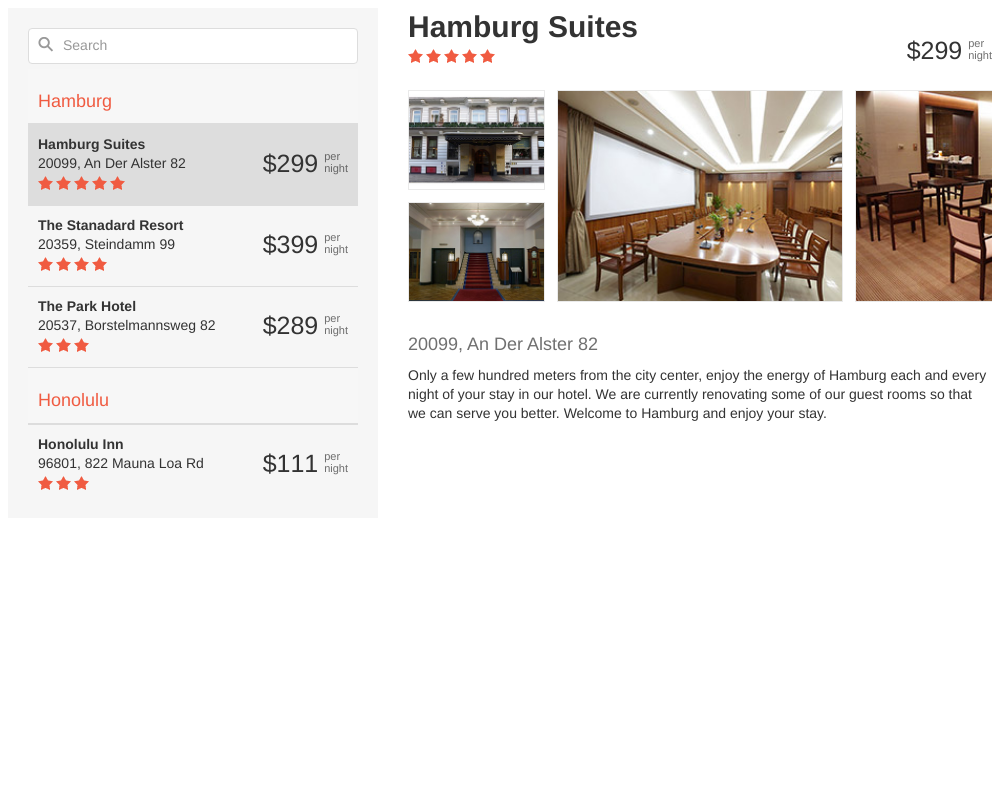
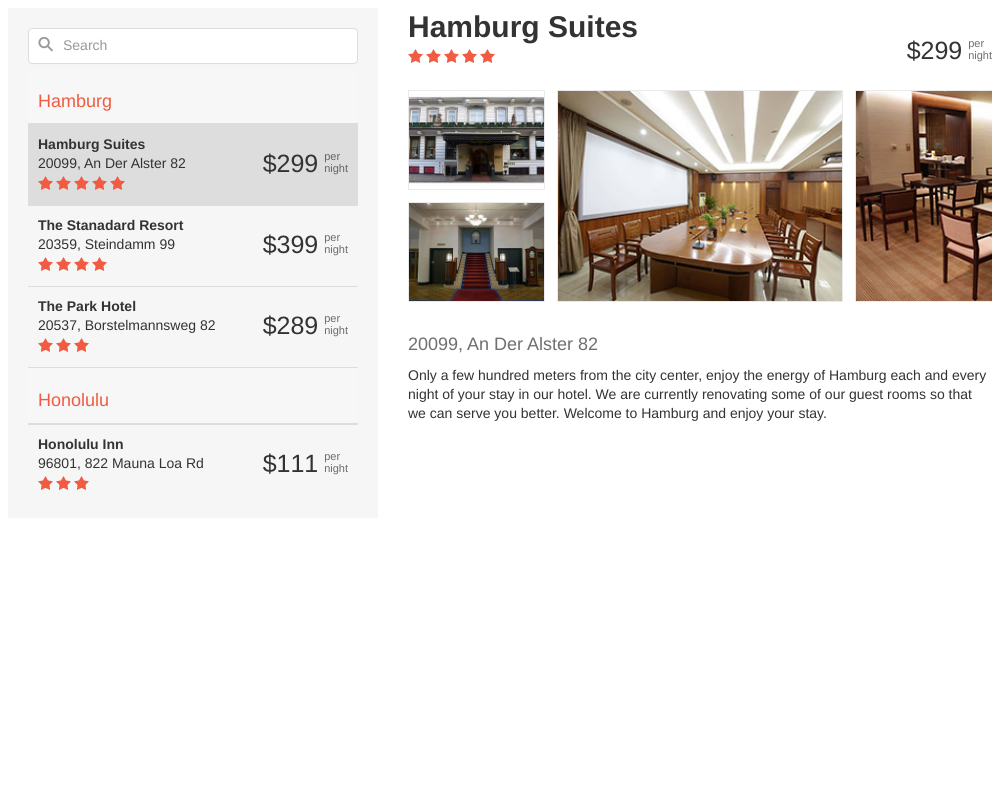
Fix CSP inline-styles for templates engine demos (#2594)

Changed region(s): [[0.403, 0.0938, 0.992, 0.375], [0.868, 0.3438, 0.899, 0.375]]

diff --git a/JSDemos/Demos/Common/ActionAndListsOverview/Vue/App.vue b/JSDemos/Demos/Common/ActionAndListsOverview/Vue/App.vue
@@ -55,10 +55,10 @@
         no-data-text=""
       >
         <template #item="{ data: item }">
-          <div
-            :style="{ 'background-image': 'url(../../../../images/hotels/' + item.FileName + ')' }"
+          <img
             class="tile-image"
-          />
+            :src="'../../../../images/hotels/' + item.FileName"
+          >
         </template>
       </DxTileView>
       <div class="address">{{ currentHotel.Postal_Code }}, {{ currentHotel.Address }}</div>

diff --git a/JSDemos/Demos/Common/ActionAndListsOverview/Angular/app/app.component.html b/JSDemos/Demos/Common/ActionAndListsOverview/Angular/app/app.component.html
@@ -56,13 +56,10 @@
     [itemMargin]="12"
   >
     <div *dxTemplate="let item of 'item'">
-      <div
+      <img
         class="tile-image"
-        [ngStyle]="{
-          'background-image':
-            'url(../../../../images/hotels/' + item.FileName + ')'
-        }"
-      ></div>
+        src="../../../../images/hotels/{{ item.FileName }}"
+      />
     </div>
   </dx-tile-view>
   <div class="address"

diff --git a/JSDemos/Demos/Common/ActionAndListsOverview/jQuery/index.html b/JSDemos/Demos/Common/ActionAndListsOverview/jQuery/index.html
@@ -45,7 +45,7 @@
         </div>
         <div class="tile">
           <script type="text/html" id="tile-template">
-            <div class="tile-image" style="background-image: url('../../../../images/hotels/{{ FileName }}');"></div>
+            <img class="tile-image" src="../../../../images/hotels/{{ FileName }}" />
           </script>
         </div>
         <div class="address"></div>

diff --git a/JSDemos/Demos/TileView/Item3RdPartyEngineTemplate/jQuery/index.html b/JSDemos/Demos/TileView/Item3RdPartyEngineTemplate/jQuery/index.html
@@ -19,7 +19,7 @@
 
       <script type="text/html" id="home-template">
         <div class="price">{{ #formatCurrency }}{{ Price }}{{ /formatCurrency }} </div>
-        <div class="image" style="background-image: url('{{ ImageSrc }}')"></div>
+        <img class="image" src="{{ ImageSrc }}" />
       </script>
     </div>
   </body>

diff --git a/JSDemos/Demos/Common/ActionAndListsOverview/React/App.js b/JSDemos/Demos/Common/ActionAndListsOverview/React/App.js
@@ -119,9 +119,9 @@ function renderListItem(item) {
 
 function renderTile(item) {
   return (
-    <div
+    <img
       className="tile-image"
-      style={{ backgroundImage: `url(../../../../images/hotels/${item.FileName})` }}
+      src={ `../../../../images/hotels/${item.FileName}` }
     />
   );
 }

diff --git a/JSDemos/Demos/TileView/Item3RdPartyEngineTemplate/jQuery/styles.css b/JSDemos/Demos/TileView/Item3RdPartyEngineTemplate/jQuery/styles.css
@@ -7,9 +7,7 @@
 .dx-tile-content > .image {
   height: 100%;
   width: 100%;
-  background-position: center;
-  background-size: cover;
-  padding: 10px;
+  object-fit: cover;
 }
 
 .dx-tile {

diff --git a/JSDemos/Demos/Common/ActionAndListsOverview/Angular/app/app.component.css b/JSDemos/Demos/Common/ActionAndListsOverview/Angular/app/app.component.css
@@ -53,7 +53,7 @@
 ::ng-deep .right .tile-image {
   height: 100%;
   width: 100%;
-  background-size: cover;
+  object-fit: cover;
 }
 
 ::ng-deep .right .address {

diff --git a/JSDemos/Demos/Common/ActionAndListsOverview/React/styles.css b/JSDemos/Demos/Common/ActionAndListsOverview/React/styles.css
@@ -53,7 +53,7 @@
 .right .tile-image {
   height: 100%;
   width: 100%;
-  background-size: cover;
+  object-fit: cover;
 }
 
 .right .address {

diff --git a/JSDemos/Demos/Common/ActionAndListsOverview/Vue/styles.css b/JSDemos/Demos/Common/ActionAndListsOverview/Vue/styles.css
@@ -53,7 +53,7 @@
 .right .tile-image {
   height: 100%;
   width: 100%;
-  background-size: cover;
+  object-fit: cover;
 }
 
 .right .address {

diff --git a/JSDemos/Demos/Common/ActionAndListsOverview/jQuery/styles.css b/JSDemos/Demos/Common/ActionAndListsOverview/jQuery/styles.css
@@ -53,7 +53,7 @@
 .right .tile-image {
   height: 100%;
   width: 100%;
-  background-size: cover;
+  object-fit: cover;
 }
 
 .right .address {
